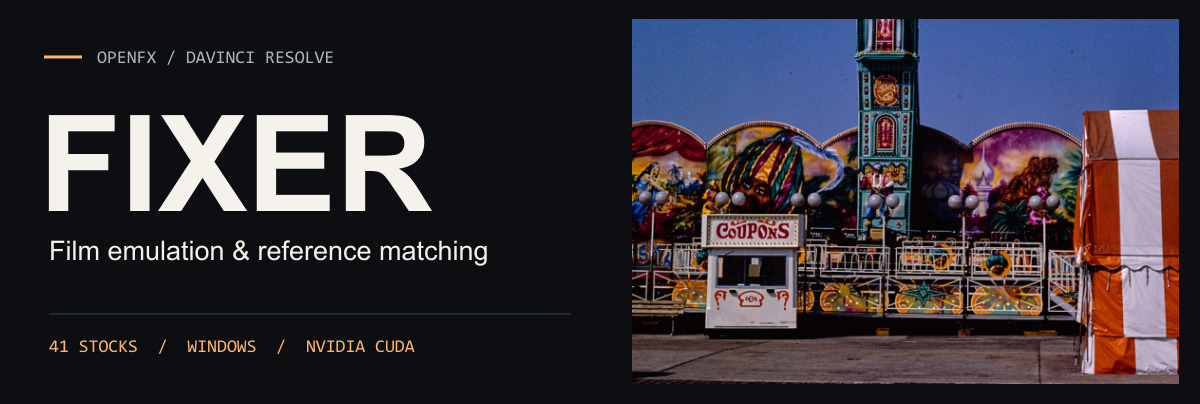
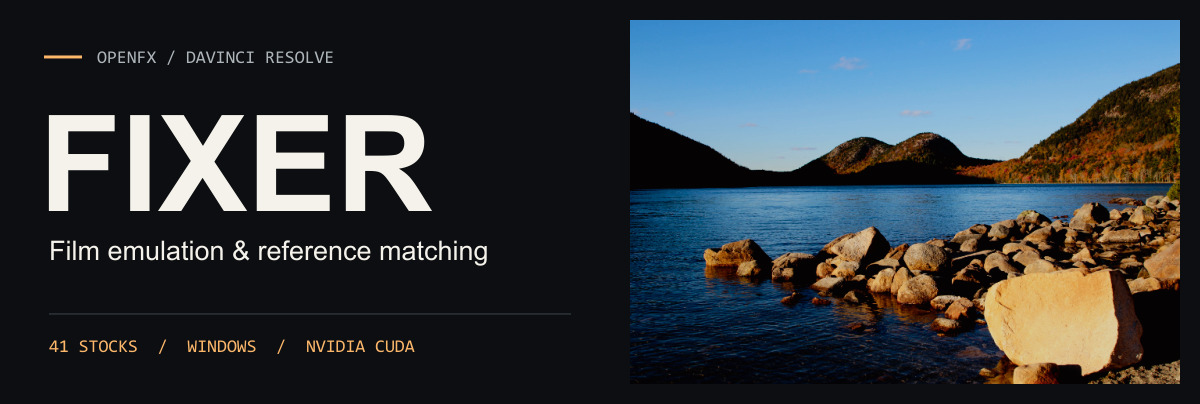
Restore the landscape cover and simplify the README demos

diff --git a/README.md b/README.md
@@ -16,17 +16,11 @@ FIXER models 41 film stocks from manufacturers’ published technical data, incl
 
 The same 1985 Ocean City scan shows how cinema negatives, still negatives, slides and black-and-white film respond to the painted panels and blue sky. The gallery adds **Ektar 100** and **Ektachrome E100** for a six-stock comparison.
 
-All demo photographs share a +0.75 EV display adjustment for viewing in the README.
+The film gallery and feature comparisons use a uniform +0.75 EV display adjustment.
 
 [![Six FIXER renders of the same frame in Vision3 250D, Portra 400, Ektar 100, Velvia 50, Ektachrome E100 and HP5 Plus](docs/readme/film-stocks.jpg)](docs/readme/film-stocks.jpg)
 
 ## Film controls
-
-### Exposure
-
-![Vision3 250D and 2383 print at minus one, zero and plus one stop of film exposure](docs/readme/exposure.jpg)
-
-Changing **Exposure** moves the frame through the selected stock’s response curve. These three renders hold the stock, print and other controls constant.
 
 ### Halation, bloom and grain
 
@@ -41,12 +35,12 @@ The grain comparison isolates **Grain → Amount** on Vision3 500T with 2383 pri
 | Controls | What you can do |
 | --- | --- |
 | **Stock and print** | Choose from cinema, colour negative, black-and-white and reversal profiles. Use **Lab scan look** for the scan-fitted variant or turn it off for the datasheet model. |
-| **Exposure and development** | Set exposure and push/pull in stops. Adjust print brightness and RGB balance with printer lights. |
+| **Development and print** | Set push/pull in stops. Adjust print brightness and RGB balance with printer lights. |
 | **Colour spaces** | Set input and output encoding for your Resolve workflow. The [user guide](docs/USER-GUIDE.md) covers DaVinci YRGB, Resolve Color Management and ACES. |
 
 ## Reference match
 
-[![A source scene and a separate reference photo, followed by actual FIXER outputs in Film + match and Match only](docs/readme/reference-match.jpg)](docs/readme/reference-match.jpg)
+[![Jordan Pond in Acadia, the Grand Prismatic Spring reference from Yellowstone, and the FIXER outputs in Film + match and Match only](docs/readme/reference-match.jpg)](docs/readme/reference-match.jpg)
 
 1. Open **Reference match** and choose a JPEG or PNG. FIXER reads it as sRGB.
 2. Set **Order** to **Film + match** to build on the selected stock, or **Match only** to bypass the film emulation.
@@ -94,4 +88,4 @@ Planned work includes OpenCL for AMD and Intel GPUs on Windows, Metal for macOS,
 
 FIXER is licensed under [Apache-2.0](LICENSE). Film names identify the stocks being emulated. See [NOTICE](NOTICE) for project attribution.
 
-The Library of Congress reports no known copyright restrictions on the archive photographs used here. See the [photo credits and render settings](docs/readme/CREDITS.md).
+The Library of Congress reports no known copyright restrictions on the archive photographs. The Acadia and Yellowstone photographs are public domain according to the U.S. National Park Service. See the [photo credits and render settings](docs/readme/CREDITS.md).

diff --git a/docs/readme/CREDITS.md b/docs/readme/CREDITS.md
@@ -4,12 +4,18 @@ Photographs by John Margolies, Library of Congress, Prints & Photographs Divisio
 
 | Photograph | Use |
 | --- | --- |
-| [1001 Nights ride, Ocean City, Maryland](https://www.loc.gov/item/2017712397/), 1985. LC-DIG-mrg-10311. | Cover, film gallery, exposure demo and reference match source. |
+| [1001 Nights ride, Ocean City, Maryland](https://www.loc.gov/item/2017712397/), 1985. LC-DIG-mrg-10311. | Film gallery and GIF. |
 | [Twi-Lite Cinema Center, Great Falls, Montana](https://www.loc.gov/pictures/item/2017708008/), 1987. LC-DIG-mrg-05915. | Halation, bloom and grain demos. |
-| [The Donut Hole, La Puente, California](https://www.loc.gov/pictures/item/2017702197/), 1991. LC-DIG-mrg-00081. | Reference match target. |
 
-The scans were cropped and resized. The FIXER OFX/CUDA test host processed DaVinci Wide Gamut / Intermediate inputs. The README images convert Rec.709 Gamma 2.4 renders to sRGB and apply a uniform +0.75 EV gain in linear display light to all panels, including the source and reference. The gain is applied after rendering and does not change the plugin settings used in each comparison.
+The U.S. National Park Service lists both photographs below as public domain.
 
-- **Film and exposure.** The gallery uses the datasheet profiles. The exposure example varies only film exposure on Vision3 250D with 2383 print.
+| Photograph | Use |
+| --- | --- |
+| [Jordan Pond and the Bubbles formation at sunset](https://npgallery.nps.gov/AssetDetail/14af3724-6dd3-45be-976a-e1e30d5f5e03), Acadia National Park. NPS / Victoria Stauffenberg. | Cover and reference match source. |
+| [Aerial view of Excelsior Geyser and Grand Prismatic Spring](https://npgallery.nps.gov/AssetDetail/3CD0B5E3-1DD8-B71B-0B6581AD308BC259), Yellowstone National Park. NPS / Jim Peaco. | Cropped to Grand Prismatic Spring for the reference match target. |
+
+The FIXER OFX/CUDA test host processed DaVinci Wide Gamut / Intermediate inputs. The README images convert Rec.709 Gamma 2.4 renders to sRGB. The film gallery, GIF, glow, grain and reference match comparisons apply a uniform +0.75 EV gain in linear display light after rendering, including their source and reference panels.
+
+- **Film profiles.** The gallery uses the datasheet profiles. The cover uses Velvia 50.
 - **Glow and grain.** The Twi-Lite crops use Vision3 500T with 2383 print. Halation is shown at 0.38 with radius 20, bloom at 0.28, and grain at amount 0.9 and size 2.
 - **Reference match.** Film + match uses Vision3 250D with 2383 print. Both modes use match strength 1.0 and skin protection 0.5.
